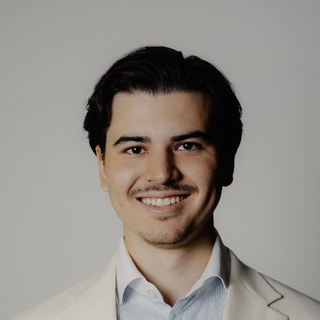
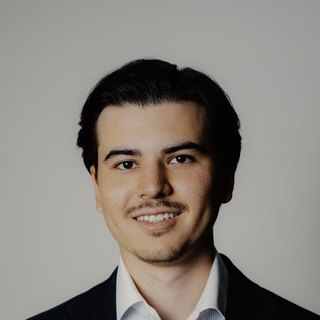
Portrait KW-164, Graufilter entfernt

Changed region(s): [[0.0625, 0.125, 1.0, 1.0]]

diff --git a/assets/css/style.css b/assets/css/style.css
@@ -290,7 +290,7 @@ section{padding-block:clamp(90px,12vw,170px)}
    ============================================================ */
 .fuehrung{background:var(--black);border-top:1px solid var(--line)}
 .lead-grid{display:grid;grid-template-columns:240px 1fr;gap:clamp(36px,5vw,70px);align-items:center;max-width:900px;margin:58px auto 0}
-.lead-grid .portrait{width:100%;aspect-ratio:1/1;object-fit:cover;border:1px solid var(--line-2);filter:grayscale(.2) contrast(1.03)}
+.lead-grid .portrait{width:100%;aspect-ratio:1/1;object-fit:cover;border:1px solid var(--line-2)}
 .lead-grid h3{font-size:clamp(22px,2.4vw,27px);font-weight:500;letter-spacing:-.01em;color:var(--white)}
 .lead-grid .role{margin-top:8px;font-size:11px;letter-spacing:.24em;text-transform:uppercase;color:var(--red-h);font-weight:600}
 .lead-grid .bio{margin-top:20px;font-size:15.5px;font-weight:300;color:var(--grey);max-width:54ch;line-height:1.75}

diff --git a/index-v2.html b/index-v2.html
@@ -186,7 +186,7 @@ section{padding:clamp(90px,12vw,150px) 0;position:relative}
 
 /* Führung */
 .lead-grid{display:grid;grid-template-columns:auto 1fr;gap:clamp(36px,5vw,70px);align-items:center;max-width:860px;margin:64px auto 0}
-.portrait{width:200px;height:200px;border-radius:50%;object-fit:cover;filter:grayscale(1) contrast(1.05);
+.portrait{width:200px;height:200px;border-radius:50%;object-fit:cover;
   border:1px solid var(--line-2)}
 .lead-grid h3{font-size:24px;font-weight:500;color:var(--ink);letter-spacing:-.01em}
 .lead-grid .role{margin-top:6px;font-size:12px;letter-spacing:.22em;text-transform:uppercase;color:var(--red-lt);font-weight:600}
